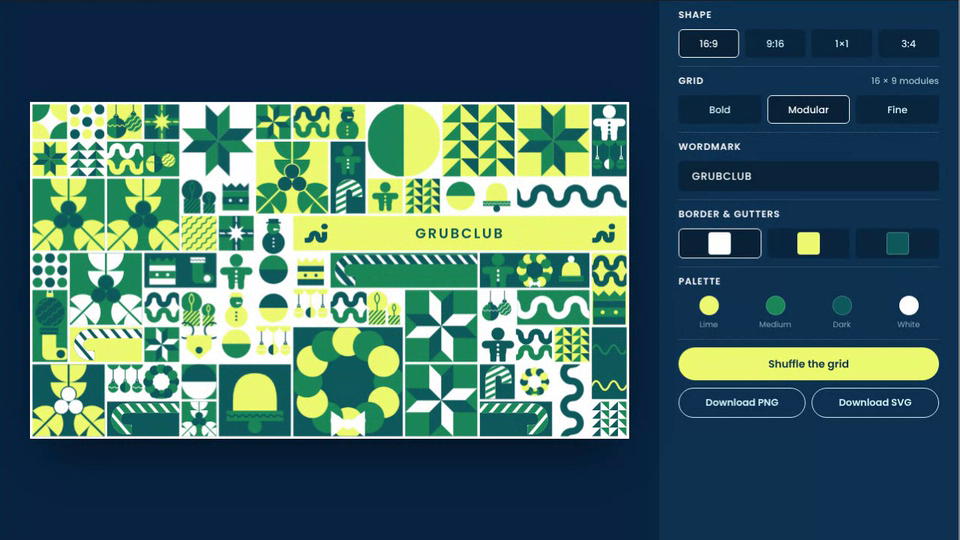
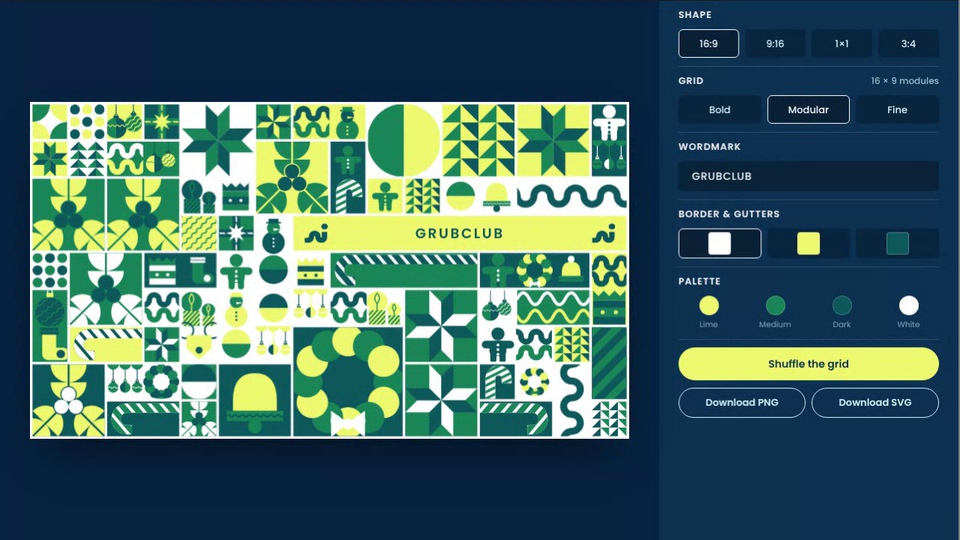
Grubclub Holiday Grid: wave lines centred, vertical four-swiggle version for tall tiles
Claude-Session: https://claude.ai/code/session_01AHeBdyRCcuLFjvrTGpsW3f

Changed region(s): [[0.5312, 0.5333, 0.6562, 0.7407]]

diff --git a/grubclub-holiday/index.html b/grubclub-holiday/index.html
@@ -252,11 +252,13 @@ const BANDS = {
     for (let x = -h * 2; x < w + h; x += st * 2) stripes += `<path d="M${f(x)} ${f(h + sw)} L${f(x + h * 1.3)} ${f(-sw)}" stroke="${c2}" stroke-width="${f(st)}"/>`;
     const g = `<mask id="${id}"><path d="${d}" stroke="#fff" stroke-width="${f(sw)}" fill="none"/></mask><path d="${d}" stroke="${c1}" stroke-width="${f(sw)}" fill="none"/><g mask="url(#${id})">${stripes}</g>`;
     return flip ? `<g transform="translate(${f(w)} 0) scale(-1 1)">${g}</g>` : g; },
-  zigzag: (w, h, k) => { const u = Math.min(w, h) * .5; let s = ''; for (let y = h * .25; y < h; y += h * .5) s += zig(0, w, y + u * .25, u * .5, Math.max(2, Math.round(w / u)), y < h * .5 ? k.a : k.b === k.bg ? k.x : k.b, u * .12); return s; },
+  /* two soft wave lines, evenly centred in the tile (a quarter in from each edge); on tall tiles they run vertically with four swiggles each */
+  zigzag: (w, h, k) => { const tall = h > w, W = tall ? h : w, H = tall ? w : h, m = Math.min(w, h), cols = Object.values(C).filter((c) => c !== k.bg).sort((u, v) => contrastOf(v, k.bg) - contrastOf(u, k.bg)).slice(0, 2), n = tall ? 4 : Math.max(3, Math.round(W / (m * .8))), amp = m * .34, sw = m * .09;
+    const o = [.25, .75].map((fr, i) => zig(0, W, H * fr, i ? -amp : amp, n, cols[i], sw)).join(''); return tall ? `<g transform="translate(${f(w)} 0) rotate(90)">${o}</g>` : o; },
   snow: (w, h, k, r) => { let s = ''; const n = Math.round(w * h / 1800); for (let i = 0; i < n; i++) s += circ(r() * w, r() * h, 2 + r() * 5, i % 5 ? k.a : k.x); return s; },
   hang: (w, h, k, r) => { const n = Math.max(2, Math.round(w / h * 6 + 1)); let s = ''; for (let i = 0; i < n; i++) { const x = (i + .5) * w / n, rad = Math.min(w / n * .36, h * .13), y = h * (.35 + r() * .5); s += `<line x1="${f(x)}" y1="0" x2="${f(x)}" y2="${f(y - rad)}" stroke="${k.b === k.bg ? k.a : k.b}" stroke-width="${f(rad * .12 + 1)}"/>` + circ(x, y, rad, [k.a, k.x, k.b === k.bg ? k.a : k.b][i % 3]); } return s; }
 };
-const WIDE = ['squiggle', 'squiggle', 'stripes', 'zigzag'];
+const WIDE = ['squiggle', 'zigzag', 'zigzag', 'stripes'];
 
 /* ---------- layout: pack a grid of 1x1 / 2x1 / 1x2 / 2x2 / 3x3 tiles around the wordmark and hero ---------- */
 function layout(cols, rows, r) {
@@ -333,7 +335,7 @@ function build(anim) {
       body = `<g transform="translate(${f(x)} ${f(y)})">${BANDS.caneSide(w, h, k, r)}</g>`;
     } else if (t.kind === 'band' && (t.w !== t.h)) {
       k = scheme(r);
-      const name = pick(r, t.w > t.h ? WIDE : ['squiggle', 'squiggle', 'stripes', 'zigzag']);
+      const name = pick(r, t.w > t.h ? WIDE : ['squiggle', 'zigzag', 'zigzag', 'stripes']);
       body = `<g transform="translate(${f(x)} ${f(y)})">${BANDS[name](w, h, k, r)}</g>`;
     } else if (t.kind === 'multi') {
       k = scheme(r);
